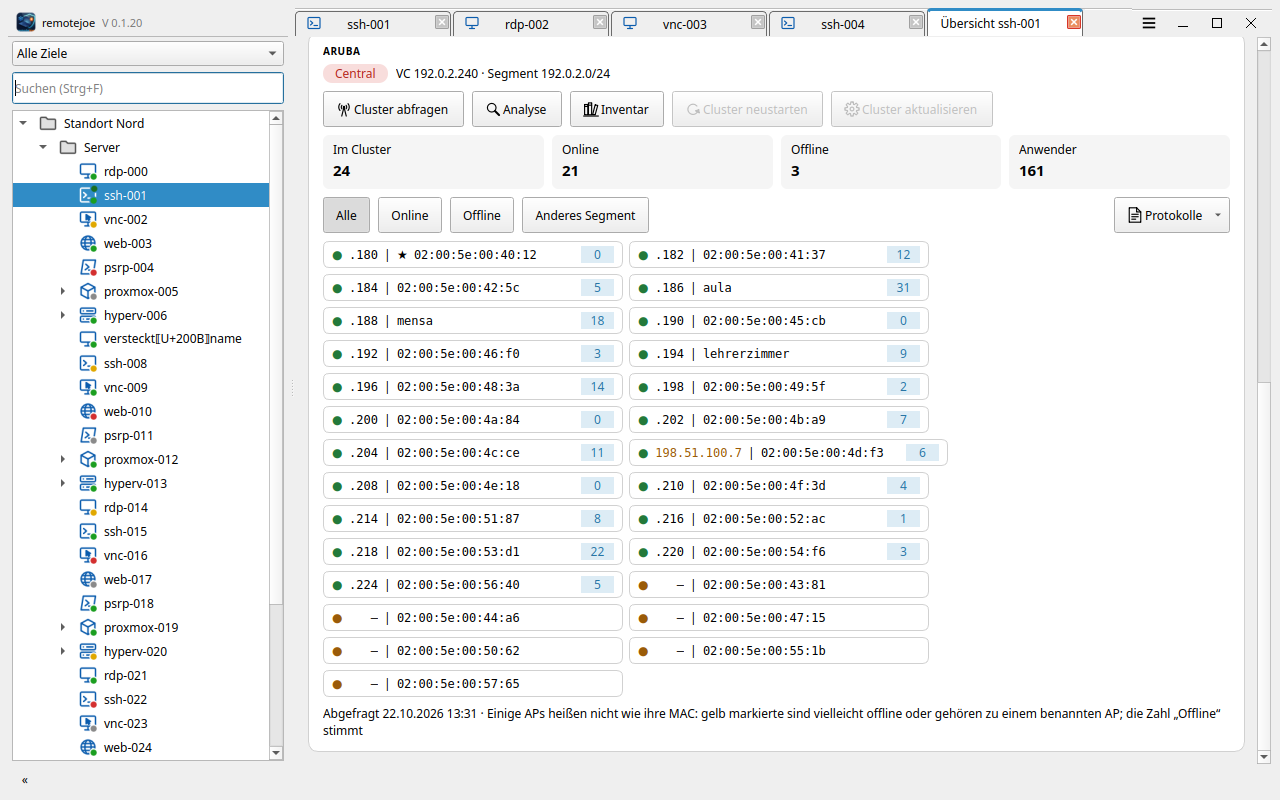
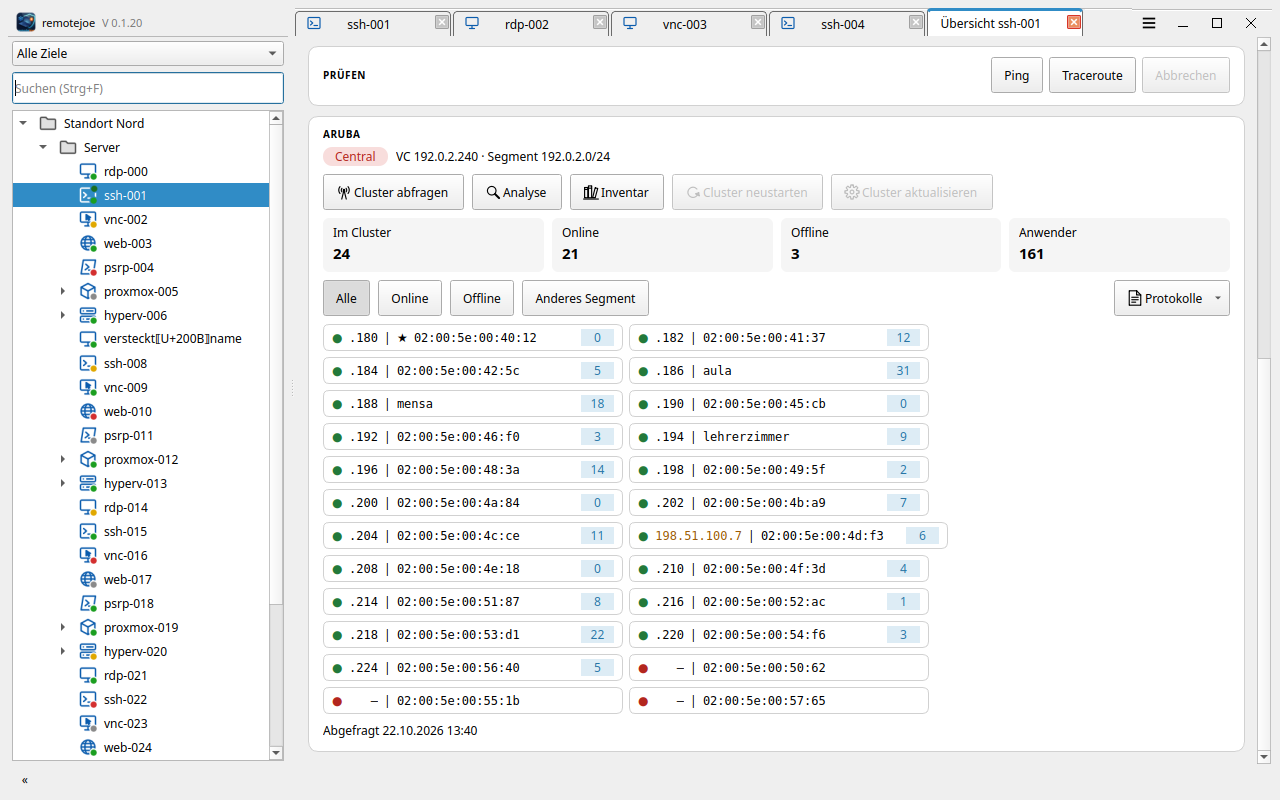
Aruba-Cluster-Karte: MAC umbenannter APs aus der AP-Tabelle von show summary (über IP, sonst Name); umbenannte APs erscheinen nicht mehr zusätzlich als mögliche Offline-Kachel

diff --git a/crates/ui/src/aruba.rs b/crates/ui/src/aruba.rs
@@ -100,10 +100,27 @@ fn segment_of(ip: &str) -> Option<String> {
     (p.len() == 4 && p.iter().all(|x| x.parse::<u8>().is_ok())).then(|| format!("{}.{}.{}", p[0], p[1], p[2]))
 }
 
+/// MAC, IP und Name der APs aus der AP-Tabelle von `show summary` („MAC  IP Address  Name  Clients …“, wie
+/// `ap_quick_inventory.py`). Die Tabelle der Anwender darüber („MAC  Name  IP Address  ESSID …“) hat keine Spalte
+/// „Clients“ und wird so nicht verwechselt.
+pub fn summary_aps(summary: &str) -> Vec<(String, String, String)> {
+    let Some((cols, rows)) = table(summary, &["MAC", "IP Address", "Name", "Clients"]) else { return Vec::new() };
+    rows.iter()
+        .filter_map(|row| {
+            let mac = cell(row, &cols, "MAC")?.to_ascii_lowercase();
+            let ip = cell(row, &cols, "IP Address")?.trim_end_matches('*').to_string();
+            let name = cell(row, &cols, "Name").unwrap_or_default().to_string();
+            is_mac(&mac).then_some((mac, ip, name))
+        })
+        .collect()
+}
+
 /// Cluster-Karte: APs aus `show aps` (online) und aus `allowed-ap` ohne Eintrag in `show aps` (offline).
-/// Offline-APs kennt nur ihre MAC; heißen online-APs anders als ihre MAC, ist die Zuordnung nicht sicher
-/// (`offline_uncertain`).
-pub fn cluster_json(show_aps: &str, running_config: &str, vc_ip: &str) -> Value {
+/// Offline-APs kennt nur ihre MAC. Die MAC der online-APs kommt aus `show summary` (über die IP, sonst den Namen)
+/// oder aus dem Namen, wenn der AP wie seine MAC heißt. Bleibt ein online-AP ohne MAC, ist die Zuordnung nicht
+/// sicher (`offline_uncertain`).
+pub fn cluster_json(show_aps: &str, running_config: &str, summary: &str, vc_ip: &str) -> Value {
+    let known = summary_aps(summary);
     let mut aps = Vec::new();
     if let Some((cols, rows)) = table(show_aps, &["Name", "IP Address"]) {
         for row in rows {
@@ -113,8 +130,15 @@ pub fn cluster_json(show_aps: &str, running_config: &str, vc_ip: &str) -> Value 
             if segment_of(ip).is_none() {
                 continue;
             }
+            let mac = known
+                .iter()
+                .find(|(_, kip, _)| kip == ip)
+                .or_else(|| known.iter().find(|(_, _, kname)| kname == name))
+                .map(|(m, _, _)| m.clone())
+                .or_else(|| is_mac(name).then(|| name.to_ascii_lowercase()));
             aps.push(json!({
                 "name": name,
+                "mac": mac,
                 "ip": ip,
                 "conductor": ip_raw.ends_with('*'),
                 "clients": cell(row, &cols, "Clients").and_then(|c| c.parse::<u32>().ok()),
@@ -125,10 +149,10 @@ pub fn cluster_json(show_aps: &str, running_config: &str, vc_ip: &str) -> Value 
             }));
         }
     }
-    let online_names: Vec<String> = aps.iter().filter_map(|a| a["name"].as_str()).map(str::to_ascii_lowercase).collect();
-    let all_macs = online_names.iter().all(|n| is_mac(n));
+    let online_macs: Vec<String> = aps.iter().filter_map(|a| a["mac"].as_str()).map(str::to_string).collect();
+    let all_macs = online_macs.len() == aps.len();
     let allowed = allowed_aps(running_config);
-    let offline: Vec<String> = allowed.iter().filter(|m| !online_names.contains(m)).cloned().collect();
+    let offline: Vec<String> = allowed.iter().filter(|m| !online_macs.contains(m)).cloned().collect();
     let offline_count = if allowed.is_empty() {
         0
     } else if all_macs {
@@ -143,7 +167,7 @@ pub fn cluster_json(show_aps: &str, running_config: &str, vc_ip: &str) -> Value 
     }
     let mut list = aps.clone();
     for m in &offline {
-        // Heißen online-APs anders als ihre MAC, kann eine nicht gefundene MAC auch zu einem von ihnen gehören.
+        // Fehlt einem online-AP die MAC, kann eine nicht gefundene MAC auch zu ihm gehören.
         list.push(json!({ "name": m, "ip": null, "online": false, "uncertain": !all_macs, "conductor": false, "clients": null, "in_segment": true }));
     }
     let clients: u64 = aps.iter().filter_map(|a| a["clients"].as_u64()).sum();
@@ -279,6 +303,7 @@ pub fn demo() -> (Value, Value) {
     let off = [16, 21, 23];
     let clients = [0, 12, 5, 31, 18, 0, 3, 9, 14, 2, 0, 7, 11, 6, 0, 4, 0, 8, 1, 22, 3, 0, 5, 0];
     let mut config = String::from("version 8.10.0.0-8.10.0\n");
+    let mut summary = String::from("MAC                IP Address       Name               Clients\n---                ----------       ----               -------\n");
     for i in 0..24usize {
         let mac = format!("02:00:5e:00:{:02x}:{:02x}", 0x40 + i, (i * 37 + 18) % 256);
         config.push_str(&format!("allowed-ap {mac}\n"));
@@ -288,9 +313,10 @@ pub fn demo() -> (Value, Value) {
         let name = named.iter().find(|(n, _)| *n == i).map_or(mac.clone(), |(_, n)| n.to_string());
         let ip = if i == 13 { "198.51.100.7".to_string() } else { format!("192.0.2.{}", 180 + i * 2) };
         let ip = if i == 0 { format!("{ip}*") } else { ip };
+        summary.push_str(&format!("{mac:<19}{:<17}{name:<19}{}\n", ip.trim_end_matches('*'), clients[i]));
         rows.push_str(&format!("{name:<19}{ip:<17}access  disable   {:<9}515(indoor)  CNZZQX{:04}\n", clients[i], i + 1));
     }
-    let mut cluster = cluster_json(&rows, &config, "192.0.2.240");
+    let mut cluster = cluster_json(&rows, &config, &summary, "192.0.2.240");
     cluster["managed"] = json!("central");
     cluster["write"] = json!({ "ok": false, "reason": "wird über Central verwaltet" });
     cluster["at"] = json!(crate::overview::inventory::now());
@@ -323,7 +349,7 @@ Name               IP Address       Mode    Spectrum  Clients  Type         IPv6
 
     #[test]
     fn cluster_from_show_aps_and_allowed_aps() {
-        let c = cluster_json(SHOW_APS, CONFIG, "192.0.2.200");
+        let c = cluster_json(SHOW_APS, CONFIG, "", "192.0.2.200");
         assert_eq!((c["total"].as_u64(), c["online"].as_u64(), c["offline"].as_u64(), c["clients"].as_u64()), (Some(4), Some(3), Some(1), Some(19)));
         assert_eq!(c["segment"], "192.0.2.0/24");
         let aps = c["aps"].as_array().unwrap();
@@ -405,10 +431,39 @@ Name               IP Address       Mode    Spectrum  Clients  Type         IPv6
     #[test]
     fn named_aps_make_offline_assignment_uncertain_and_no_allowed_list_means_unknown() {
         let named = SHOW_APS.replace("02:00:5e:00:53:13  ", "aula               ");
-        let c = cluster_json(&named, CONFIG, "192.0.2.200");
+        let c = cluster_json(&named, CONFIG, "", "192.0.2.200");
         assert_eq!(c["offline_uncertain"], true);
         assert_eq!(c["offline"], 1, "4 freigegeben, 3 online");
-        let none = cluster_json(SHOW_APS, "version 8.10\r\n", "192.0.2.200");
+        let none = cluster_json(SHOW_APS, "version 8.10\r\n", "", "192.0.2.200");
         assert_eq!((none["total"].as_u64(), none["offline"].as_u64(), none["allowed_known"].as_bool()), (Some(3), Some(0), Some(false)));
+    }
+
+    // Aufbau wie show summary am Test-AP: erst die Anwender (ohne Spalte „Clients“), dann die APs.
+    const SUMMARY: &str = "Name                    :TEST-IVC\r\n\
+MAC  Name  IP Address  ESSID  Access Point  \r\n\
+---  ----  ----------  -----  ------------  \r\n\
+\r\n\
+3 Access Points\r\n\
+---------------\r\n\
+MAC                IP Address       Name               Clients   Need Antenna Config  \r\n\
+---                ----------       ----               -------   -------------------  \r\n\
+02:00:5e:00:53:12  192.0.2.210      MASTER-testhaus    7         No                   \r\n\
+02:00:5e:00:53:13  192.0.2.211      aula               12        No                   \r\n\
+02:00:5e:00:53:14  198.51.100.7     02:00:5e:00:53:14  0         No                   \r\n\
+Restricted Management Access Subnets\r\n";
+
+    #[test]
+    fn renamed_aps_get_their_mac_from_show_summary() {
+        let named = SHOW_APS.replace("02:00:5e:00:53:12  192.0.2.210*", "MASTER-testhaus    192.0.2.210*").replace("02:00:5e:00:53:13  ", "aula               ");
+        assert_eq!(summary_aps(SUMMARY).len(), 3);
+        let c = cluster_json(&named, CONFIG, SUMMARY, "192.0.2.200");
+        assert_eq!(c["offline_uncertain"], false);
+        assert_eq!(c["offline"], 1);
+        let aps = c["aps"].as_array().unwrap();
+        assert_eq!((aps[0]["name"].as_str(), aps[0]["mac"].as_str()), (Some("MASTER-testhaus"), Some("02:00:5e:00:53:12")));
+        assert_eq!(aps.len(), 4, "die MAC des umbenannten Masters erscheint nicht als Offline-Kachel");
+        assert_eq!((aps[3]["name"].as_str(), aps[3]["online"].as_bool(), aps[3]["uncertain"].as_bool()), (Some("02:00:5e:00:53:15"), Some(false), Some(false)));
+        // Ohne AP-Tabelle in show summary: unsicher wie bisher.
+        assert_eq!(cluster_json(&named, CONFIG, "Name :x\r\n", "192.0.2.200")["offline_uncertain"], true);
     }
 }

diff --git a/crates/ui/src/overview/mod.rs b/crates/ui/src/overview/mod.rs
@@ -447,7 +447,7 @@ impl App {
                 if r.outputs.len() < 3 {
                     return Err("Keine vollständige Antwort des Controllers (Zeitlimit 30 s)".to_string());
                 }
-                let mut v = crate::aruba::cluster_json(&r.outputs[1], &r.outputs[2], &vc);
+                let mut v = crate::aruba::cluster_json(&r.outputs[1], &r.outputs[2], r.outputs.get(3).map_or("", String::as_str), &vc);
                 let managed = r.outputs.get(3).and_then(|s| crate::aruba::management(s));
                 v["managed"] = json!(managed);
                 // Schreibende Werkzeuge (Neustart, Update): nur unverwaltet und mit Admin-Konto.
